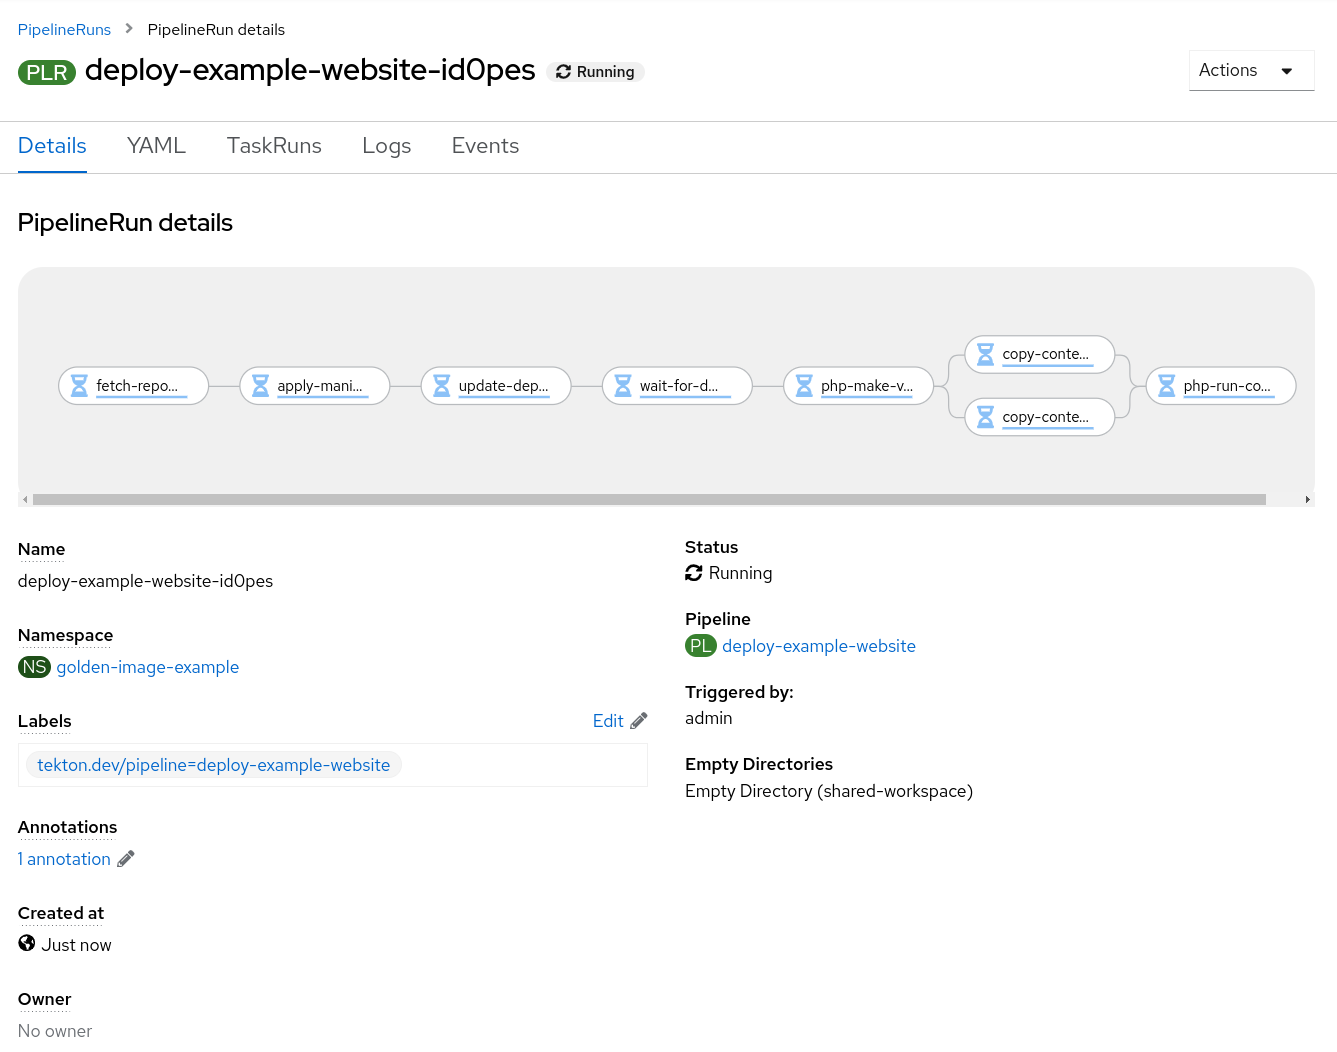
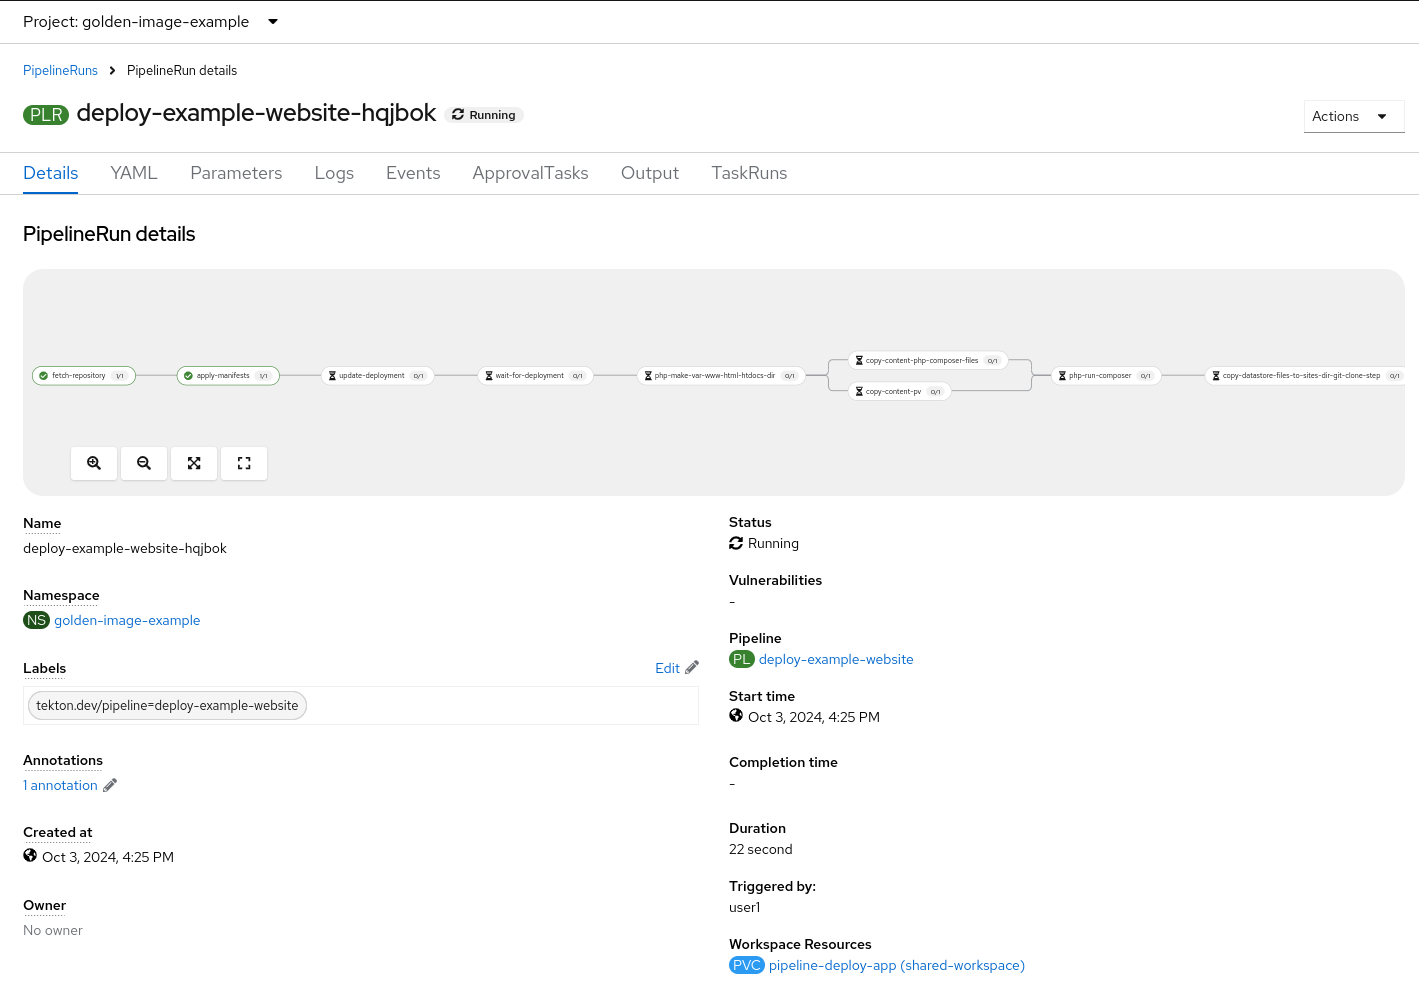
update readme

diff --git a/README.md b/README.md
@@ -115,13 +115,25 @@ It's assumed you have:
     oc create -f ./tekton/pipeline.yaml -n golden-image-example
     ```
 
-21. Now if we go back to the Pipelines section in the OpenShift web-console, we'll see our newly created `deploy-example-website` pipeline. As before, click the 3 dots to the right and click start:
+21. Back to the web console and navigate in the left hand section to Storage > PersistentVolumeClaims:
+
+    ![OCP Storage PVC](./readme-images/storage_pvc2.png)
+
+22. Click the `Create PersistentVolumeClaim` button:
+
+    ![Create PersistentVolumeClaim Button](./readme-images/pvc_button.png)
+
+23. Create a PVC named `pipeline-deploy-app` of type `RWO` and size `1 GiB`. Then click `Create` **Note:** The available `StorageClass` will vary depending based upon your environment:
+
+    ![Create deploy app PersistentVolumeClaim](./readme-images/deploy_app_pvc.png)
+
+22. Now if we go back to the Pipelines section in the OpenShift web-console, we'll see our newly created `deploy-example-website` pipeline. As before, click the 3 dots to the right and click start:
 
     ![Deploy Example Website Start](./readme-images/deploy_example_pipeline_start.png)
 
-16. Very similarly to the before, modify the **shared-workspace** field to `VolumeClaimTemplate` and click `Start`:
+16. Very similarly to the before, modify the **shared-workspace** field to `PersistentVolumeClaim` and select the `pipeline-deploy-app` PersistentVolumeClaim and click `Start`:
 
-    ![Deploy Example Website VolumeClaimTemplate](./readme-images/deploy_example_pipeline_vc_template.png)
+    ![Deploy Example Website PersistentVolumeClaim](./readme-images/deploy_example_pipeline_pvc.png)
 
 17. Now the pipeline should start
 
